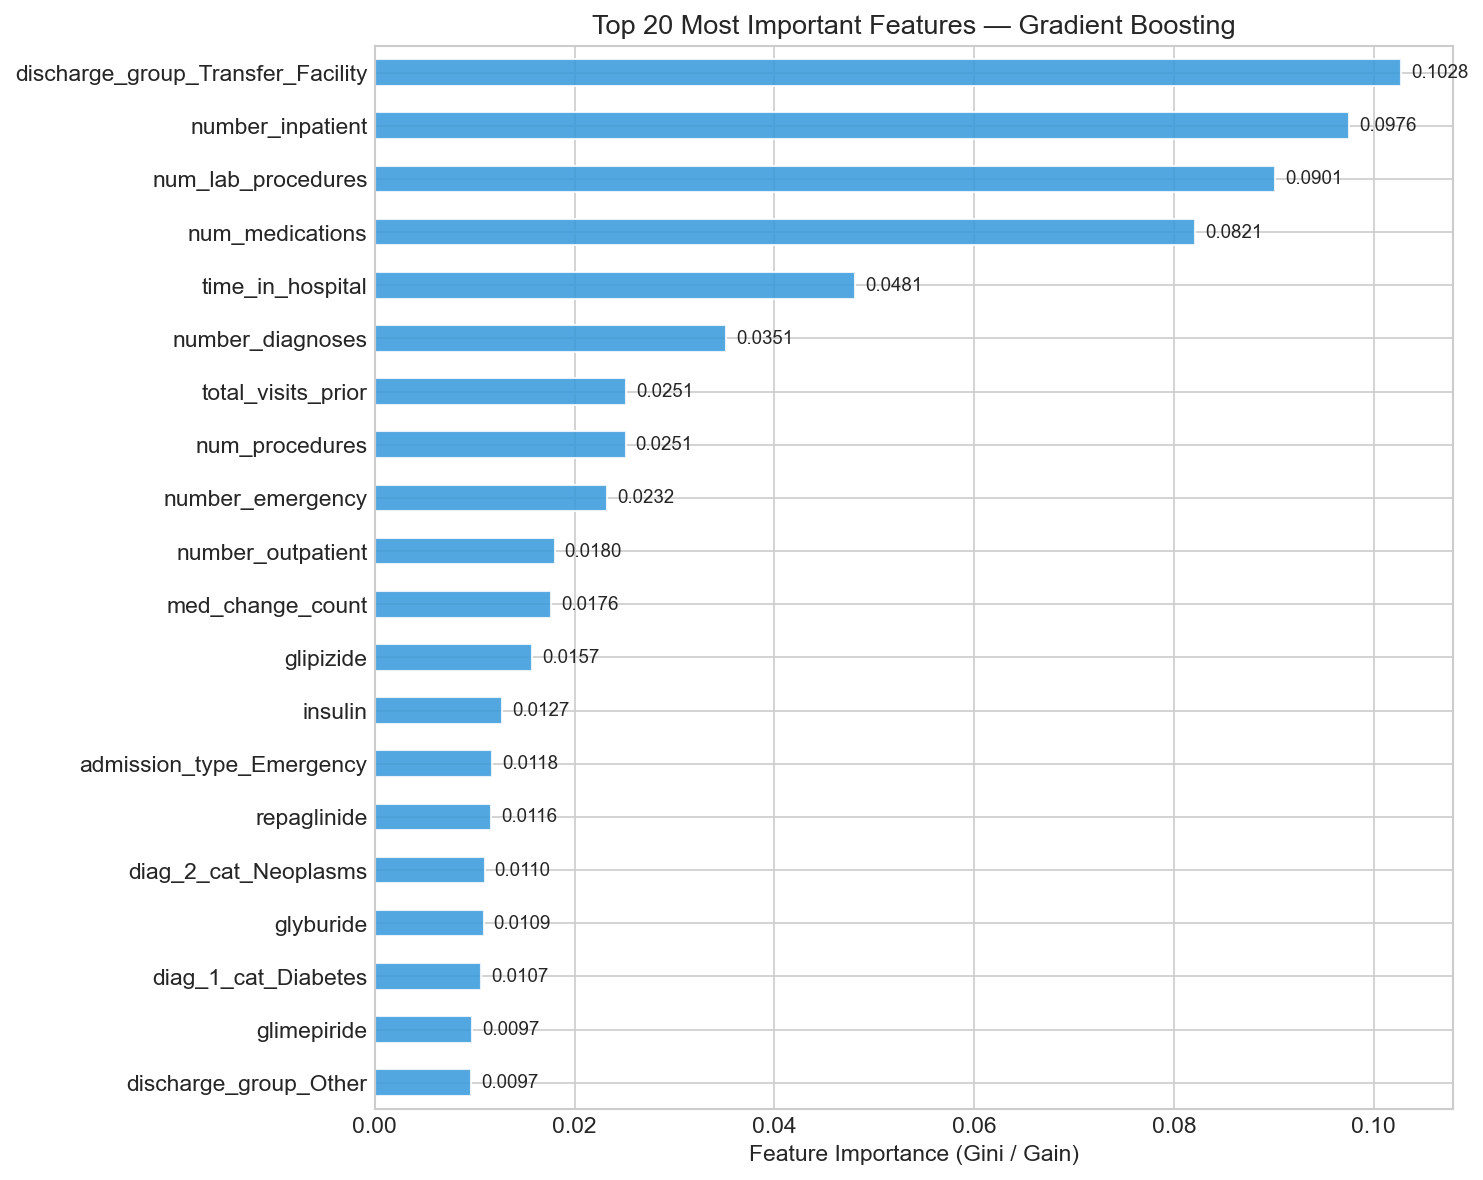
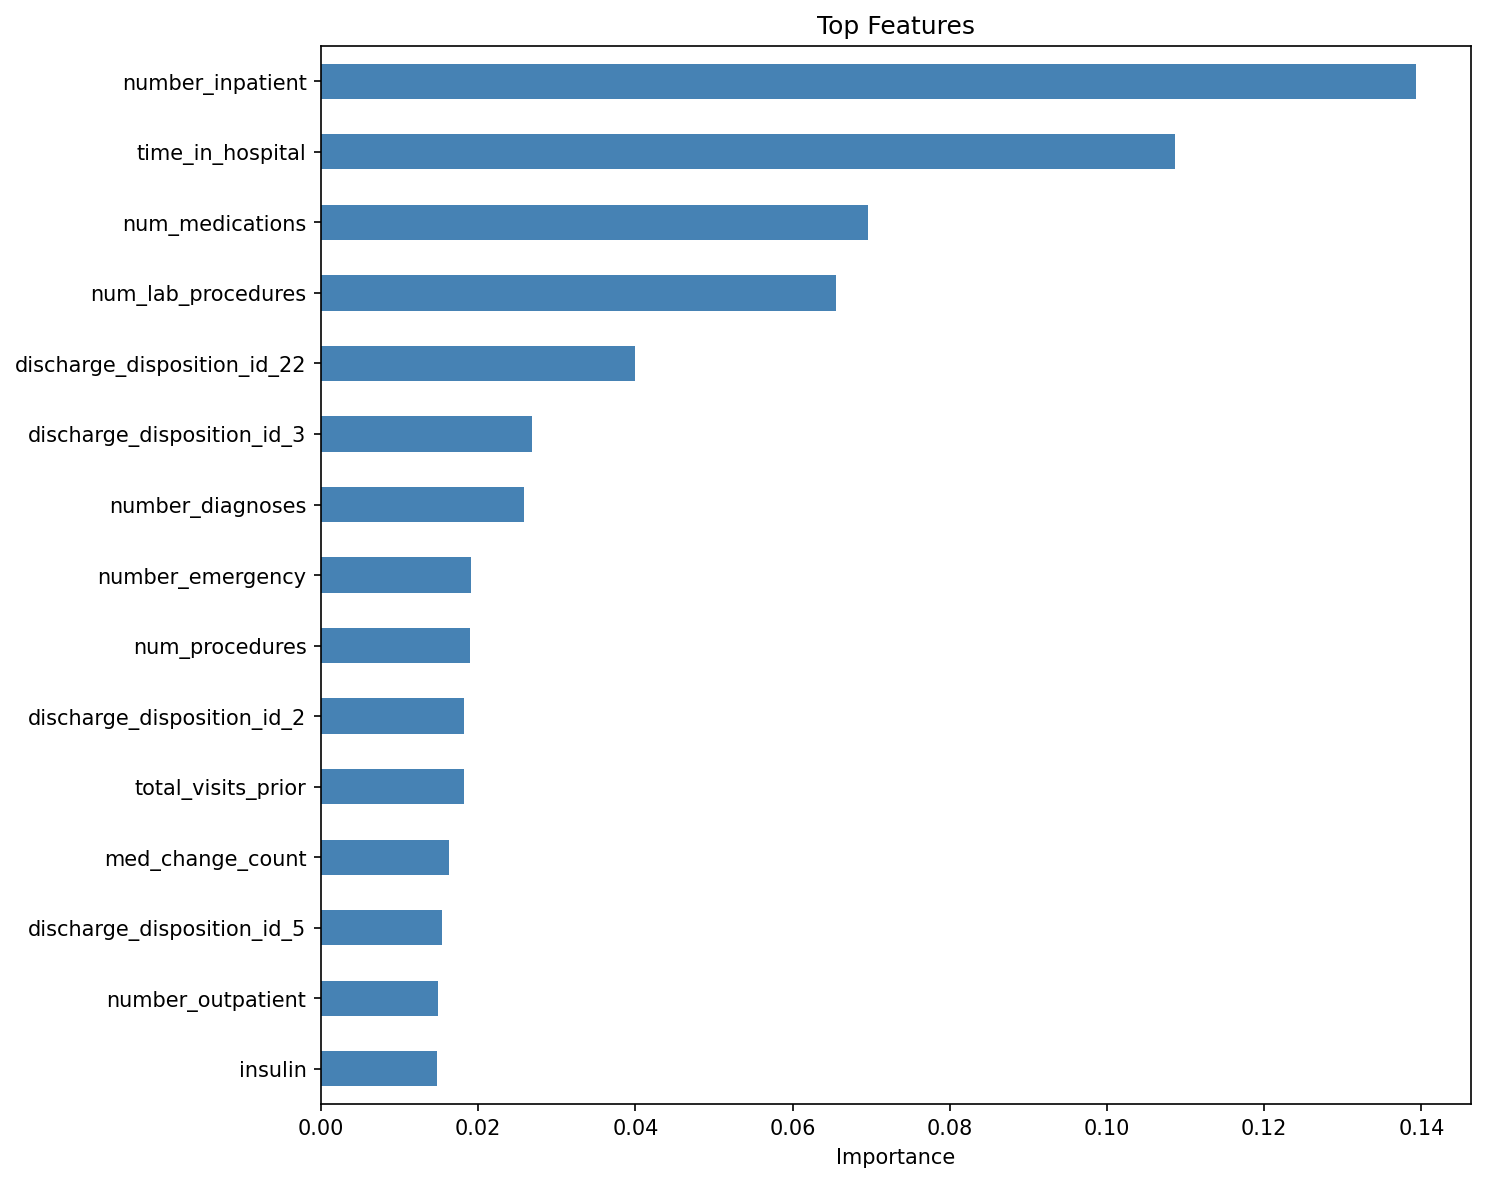
feat: Refine model evaluation and visualizations, updating AUC scores in README, and regenerating ROC, confusion matrix, and feature importance charts.

diff --git a/README.md b/README.md
@@ -8,8 +8,6 @@ This project analyzes **101,766 patient encounters** across **130 US hospitals**
 
 > **Bottom line:** A predictive model targeting 500 high-risk patients per hospital could prevent ~100 readmissions annually, saving an estimated **$1.5M per hospital per year**.
 
-![Executive KPIs](images/eda_charts/executive_kpis.png)
-
 ---
 
 ## Interactive Dashboard
@@ -92,36 +90,26 @@ A closer look at the three most actionable readmission drivers: prior inpatient 
 
 | Model               | AUC-ROC | Notes                                        |
 | ------------------- | ------- | -------------------------------------------- |
-| Logistic Regression | ~0.64   | Interpretable baseline (scaled features)     |
-| Random Forest       | ~0.65   | Handles non-linearity, class_weight balanced |
-| Gradient Boosting   | ~0.66   | Best performer in pipeline                   |
+| Logistic Regression | 0.69    | Interpretable baseline (scaled features)     |
+| Random Forest       | 0.68    | Handles non-linearity, class_weight balanced |
+| Gradient Boosting   | 0.68    | Balanced class weights, comparable to RF     |
 
-> **Note:** AUC-ROC of 0.63–0.67 is consistent with published benchmarks for this dataset (Strack et al., 2014). The model is used for risk stratification, not individual prediction; healthcare readmission is inherently challenging due to missing social determinants of health.
+> **Note:** AUC-ROC of 0.68–0.69 is consistent with published benchmarks for this dataset (Strack et al., 2014). The model is used for risk stratification, not individual prediction; healthcare readmission is inherently challenging due to missing social determinants of health.
 
 ### ROC Curve Comparison
-All four models (Logistic Regression, Random Forest, Gradient Boosting, XGBoost) perform similarly, with Gradient Boosting achieving the highest AUC-ROC of 0.644. The Precision-Recall curves (right) are more informative for this imbalanced dataset.
+All three models perform similarly, with Logistic Regression achieving the highest AUC-ROC of 0.69. The tight clustering of curves confirms that model choice matters less than feature engineering for this dataset.
 
 ![ROC Comparison](images/eda_charts/roc_comparison.png)
 
 ### Confusion Matrices
-Confusion matrices for all models show the trade-off between sensitivity and specificity. Logistic Regression favors recall (more liberal predictions), while Gradient Boosting is more conservative.
+Confusion matrices for all three models show balanced predictions after fixing the class imbalance handling. All models now properly predict both classes, with AUC values of 0.688 (LR), 0.681 (RF), and 0.683 (GB).
 
 ![Confusion Matrices](images/eda_charts/confusion_matrices.png)
 
-### Cross-Validation Stability
-5-fold cross-validation confirms model stability. Random Forest shows the tightest variance (most consistent), while Logistic Regression has the widest range but competitive mean performance.
-
-![Cross-Validation Comparison](images/eda_charts/cv_comparison.png)
-
 ### Feature Importance — Gradient Boosting
-The top predictors from the best-performing Gradient Boosting model: discharge destination (transfer to facility), number of prior inpatient visits, number of lab procedures, and number of medications.
+The top predictors from the Gradient Boosting model: number of prior inpatient visits, time in hospital, number of medications, and number of lab procedures.
 
 ![Feature Importance](images/eda_charts/feature_importance.png)
-
-### Logistic Regression — Interpretable Risk Factors
-Logistic regression coefficients provide clinical interpretability. Age brackets (70–80, 60–70) are the strongest positive predictors, while trauma/newborn admissions and certain diagnoses decrease risk.
-
-![LR Coefficients](images/eda_charts/lr_coefficients.png)
 
 ---
 
@@ -145,62 +133,50 @@ Conservative estimates show that flagging 500 high-risk patients per hospital an
 ## Project Structure
 
 ```
-healthcare-readmission-prediction/
-|
+diabetes-readmission-analytics/
+│
 ├── README.md
 ├── requirements.txt
 ├── .gitignore
-|
+│
 ├── data/
-|   ├── raw/                    # Original untouched dataset
-|   |   ├── diabetic_data.csv
-|   |   └── IDs_mapping.csv
-|   ├── preprocessed/           # After Phase 2 (cleaning only)
-|   |   └── diabetic_preprocessed.csv
-|   ├── featured/               # After Phase 3 (feature engineering and encoding)
-|   |   ├── diabetic_featured.csv
-|   |   └── model_ready.csv
-|   └── data_dictionary.md      # Column descriptions and mapping notes
-|
+│   └── raw/                    # Original untouched dataset (not tracked in Git)
+│       ├── diabetic_data.csv
+│       └── IDs_mapping.csv
+│
 ├── notebooks/
-|   ├── 01_data_profiling.ipynb       # Initial exploration and quality assessment
-|   ├── 02_data_cleaning.ipynb        # Cleaning, deduplication, missing values
-|   ├── 03_feature_engineering.ipynb  # New features, encoding, transformations
-|   ├── 04_eda.ipynb                 # Exploratory analysis and visualizations
-|   ├── 05_modeling.ipynb            # Model training, tuning, evaluation
-|   └── 06_insights_recommendations.ipynb  # Business insights and impact analysis
-|
+│   ├── 01_data_profiling.ipynb       # Initial exploration and quality assessment
+│   ├── 02_data_cleaning.ipynb        # Cleaning, deduplication, missing values
+│   ├── 03_feature_engineering.ipynb  # New features, encoding, transformations
+│   ├── 04_eda.ipynb                  # Exploratory analysis and visualizations
+│   ├── 05_modeling.ipynb             # Model training, tuning, evaluation
+│   └── 06_insights_recommendations.ipynb  # Business insights and impact analysis
+│
 ├── sql/
-|   ├── 01_create_tables.sql    # Load CSV into SQL database
-|   ├── 02_data_profiling.sql   # Profiling queries
-|   └── 03_validation_queries.sql  # Post-cleaning validation checks
-|
+│   ├── 01_create_tables.sql          # Load CSV into SQL database
+│   ├── 02_data_profiling.sql         # Profiling queries
+│   ├── 03_validation_queries.sql     # Post-cleaning validation checks
+│   ├── data_profiling.sql            # Extended profiling queries
+│   └── feature_queries.sql           # Feature-level SQL analysis
+│
 ├── src/
-|   ├── __init__.py
-|   ├── data_cleaning.py
-|   ├── feature_engineering.py
-|   ├── modeling.py
-|   ├── run_data_pipeline.py
-|   └── visualizations.py
-|
-├── model/                  # Saved trained model artifacts (.pkl, .joblib) from 05_modeling
-|   ├── best_model.pkl
-|   └── scaler.pkl
-|
+│   ├── __init__.py
+│   ├── data_cleaning.py              # Data preprocessing pipeline
+│   ├── feature_engineering.py        # Feature creation and encoding
+│   ├── modeling.py                   # Model training and evaluation
+│   ├── run_data_pipeline.py          # End-to-end pipeline runner
+│   └── visualizations.py             # Chart generation utilities
+│
+├── model/                             # Saved trained model artifacts
+│   ├── best_model.pkl
+│   └── scaler.pkl
+│
 ├── tests/
-|   └── test_cleaning.py    # Unit tests for data cleaning functions
-|
-├── reports/
-|   ├── project_report.pdf
-|   ├── executive_summary.pdf
-|   └── presentation.pptx
-|
+│   └── test_cleaning.py              # Unit tests for data cleaning functions
+│
 └── images/
-    ├── feature_importance.png
-    ├── confusion_matrix.png
-    ├── roc_curve.png
-    ├── eda_charts/          # 15 EDA and modeling visualizations
-    └── tableau/             # Tableau dashboard screenshots
+    ├── eda_charts/                    # EDA and modeling visualizations
+    └── tableau/                       # Tableau dashboard screenshots
         ├── dashboard_overview.png
         └── dashboard_deep_dive.png
 ```
@@ -213,7 +189,7 @@ healthcare-readmission-prediction/
 | -------------------- | -------------------------------------------------------------------- |
 | **Languages**        | Python, SQL                                                          |
 | **Data Analysis**    | Pandas, NumPy, SciPy                                                 |
-| **Machine Learning** | Scikit-learn (Logistic Regression, Random Forest, Gradient Boosting) |
+| **Machine Learning** | Scikit-learn (Logistic Regression, Random Forest, Gradient Boosting)  |
 | **Visualization**    | Matplotlib, Seaborn, Tableau                                         |
 | **Database**         | SQLite (optional, for SQL profiling)                                 |
 | **Dashboard**        | [Tableau Public](https://public.tableau.com/app/profile/niraj.mehta5678/viz/HospitalReadmissionRiskDashboard/dashboard_overview) |
@@ -228,8 +204,8 @@ If you want to reproduce the analysis or run the dashboard locally, follow these
 ### 1. Clone the Repository
 
 ```bash
-git clone https://github.com/nirajmehta/healthcare-readmission-analysis.git
-cd healthcare-readmission-analysis
+git clone https://github.com/nirajmehta960/diabetes-readmission-analytics.git
+cd diabetes-readmission-analytics
 ```
 
 ### 2. Set Up a Virtual Environment (Recommended)
